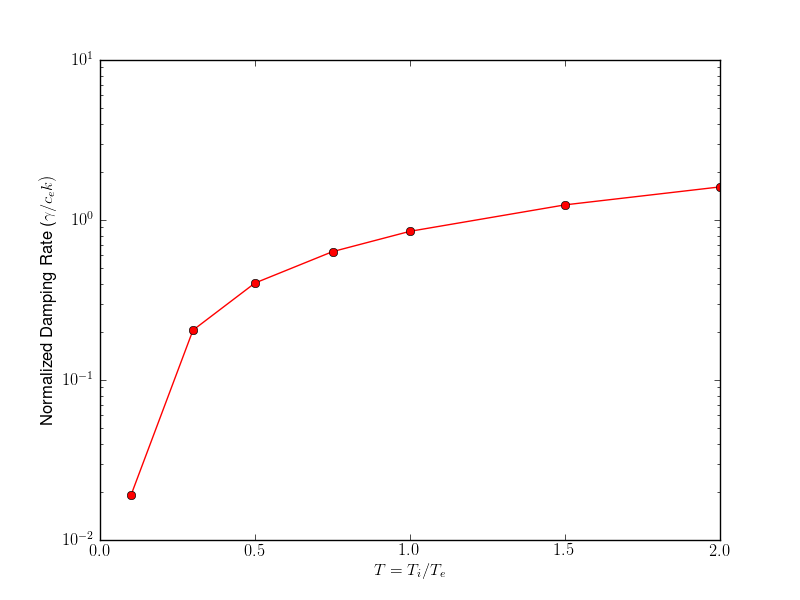
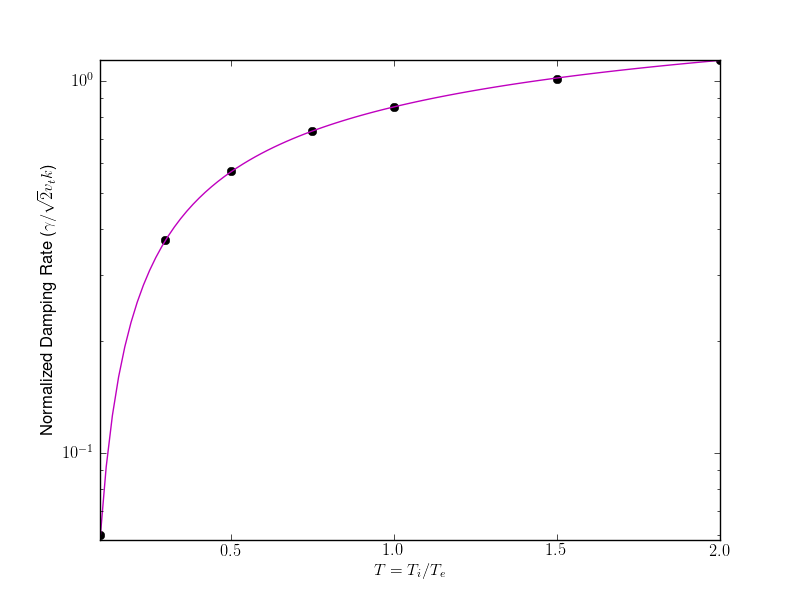
Updated figure with exact damping results for ion-acoustic waves.

diff --git a/je/je15/plot-damping-rates-ion-sound.py b/je/je15/plot-damping-rates-ion-sound.py
@@ -7,9 +7,14 @@ import math
 figure(1)
 rc('text', usetex=True)
 dat = loadtxt('damping-rates-ion-sound.txt')
-ndr = dat[:,1]/(0.5*sqrt(1/dat[:,0]))
-semilogy(dat[:,0], ndr, '-ro')
+semilogy(dat[:,0], 2*dat[:,1], 'ko')
 xlabel(r'$T = T_i/T_e$')
-ylabel('Normalized Damping Rate (\gamma/c_ek)')
+
+datEx = loadtxt('exact-ld-damping-rates-ion-acoustic.txt')
+semilogy(datEx[:,0], -datEx[:,1], 'm-', label='Exact')
+
+ylabel('Normalized Damping Rate ($\gamma/\sqrt{2} v_t k$)')
+pylab.axis('tight')
 savefig('damping-rates-ion-sound.png')
+show()
 close()

diff --git a/je/je15/plot-energy-error.py b/je/je15/plot-energy-error.py
@@ -1,0 +1,13 @@
+from pylab import *
+import math
+
+dat2 = loadtxt("momentum-error-dx.txt")
+dat3 = loadtxt("momentum-error-o3-dx.txt")
+
+loglog(dat2[:,0], dat2[:,1], 'r-o')
+loglog(dat3[:,0], dat3[:,1], 'k-o')
+axis('tight')
+ylabel('Error in Energy')
+xlabel('Time-Step')
+#show()
+savefig('dg-o2-o3-energy-conservation-errors.png')

diff --git a/je/je15/je15-vlasov-poisson.rst b/je/je15/je15-vlasov-poisson.rst
@@ -153,9 +153,7 @@ delicate damping from the phase-mixing process.
   :align: center
 
   Damping rate from Landau damping for electron plasma oscillations as
-  a function of normalized Debye length. These simulations were
-  performed on a larger domain (compared to Debye length) to allow
-  comparison with analytical results. The black dots show the
+  a function of normalized Debye length. The black dots show the
   numerical damping rates compared to the exact results (magenta),
   third-order formula (red) and the first-order formula (blue). The
   damping rates are within 3% of the exact values, and for large
@@ -454,12 +452,13 @@ the following figure.
   :width: 100%
   :align: center
 
-  Normalized damping rates :math:`\gamma/c_e k` where :math:`c_e =
-  \sqrt{T_e/m_i}` as a function of temperature ratio
-  :math:`T_i/T_e`. Ion sound waves are strongly damped as ion
-  temperature becomes comparable to the electron
-  temperature. Conversely, the damping is very small as the ions get
-  colder.
+  Normalized damping rates :math:`\gamma/\sqrt{2}v_t k` where
+  :math:`v_t = \sqrt{T_i/m_i}` as a function of temperature ratio
+  :math:`T_i/T_e`. The black dots show the numerical damping rates
+  compared to the exact results (magenta). Ion sound waves are
+  strongly damped as ion temperature becomes comparable to the
+  electron temperature. Conversely, the damping is very small as the
+  ions get colder.
 
 A note on dispersion relations for electrostatic oscillations
 -------------------------------------------------------------
@@ -526,22 +525,15 @@ where :math:`\lambda_D = v_e/\omega_e` is the Debye length. Once
 :math:`K \equiv k \lambda_D`, the frequency is determined from
 :math:`\omega/\omega_e = \sqrt{2} K \zeta`.
 
-.. Ion acoustic waves
-.. ++++++++++++++++++
+Ion acoustic waves
+++++++++++++++++++
 
-.. For ion acoustic waves we can no longer ignore the ion contribution to
-.. the dielectric function. In this case we can express the dispersion
-.. function as
+For ion acoustic waves we can express the dispersion
+function as
 
-.. .. math::
+.. math::
 
-..  k^2\lambda_D^2 + 1 - \frac{T_e}{2 T_i} Z'(\zeta) = 0
+ 1 + \frac{T_e}{2 T_i} Z'(\zeta) = 0
 
-.. where we have now defined :math:`\zeta \equiv \omega/\sqrt{2} v_i k`
-.. and have assumed massless electrons. We let :math:`T \equiv T_i/T_e`
-.. and determine :math:`\zeta` for a specified value of :math:`T` (in
-.. this case :math:`K` is just held fixed). Now, the electron
-.. contribution to the ion sound speed is :math:`c_e =
-.. \sqrt{T_e/m_i}`. Hence, once :math:`\zeta` is determined we can
-.. compute the normalized frequency from :math:`\omega/kc_i = \sqrt{2
-.. T}\zeta`.
+where we have now defined :math:`\zeta \equiv \omega/\sqrt{2} v_i k`
+and have assumed massless, isothermal electrons.
